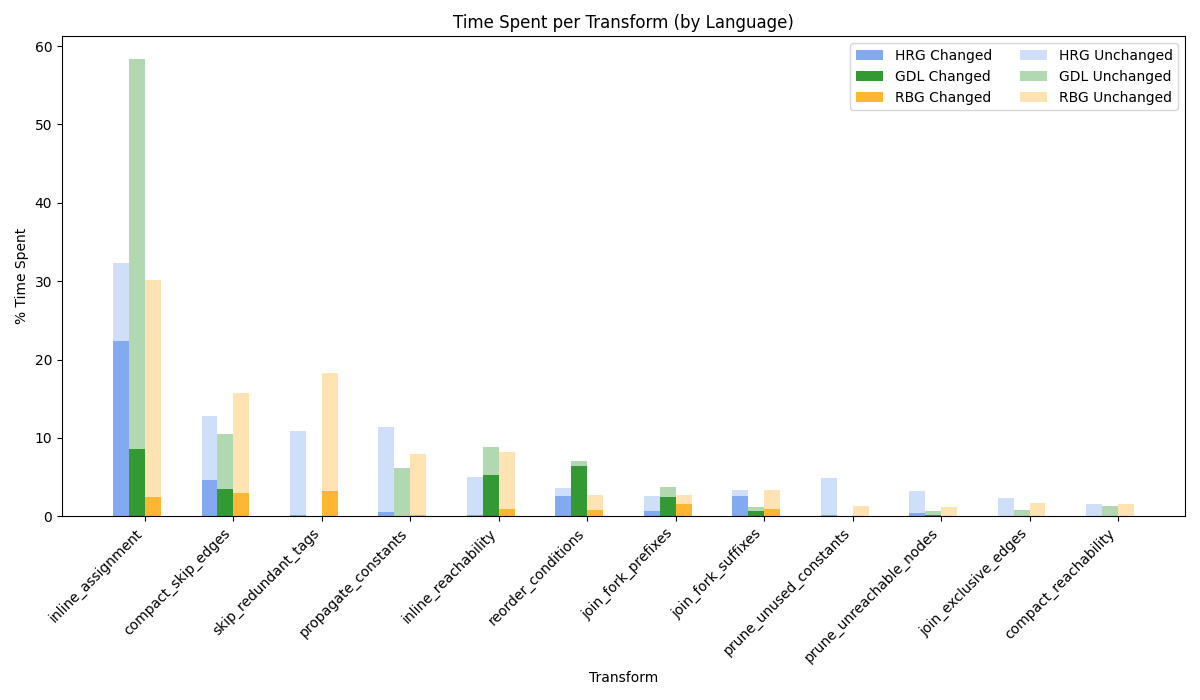
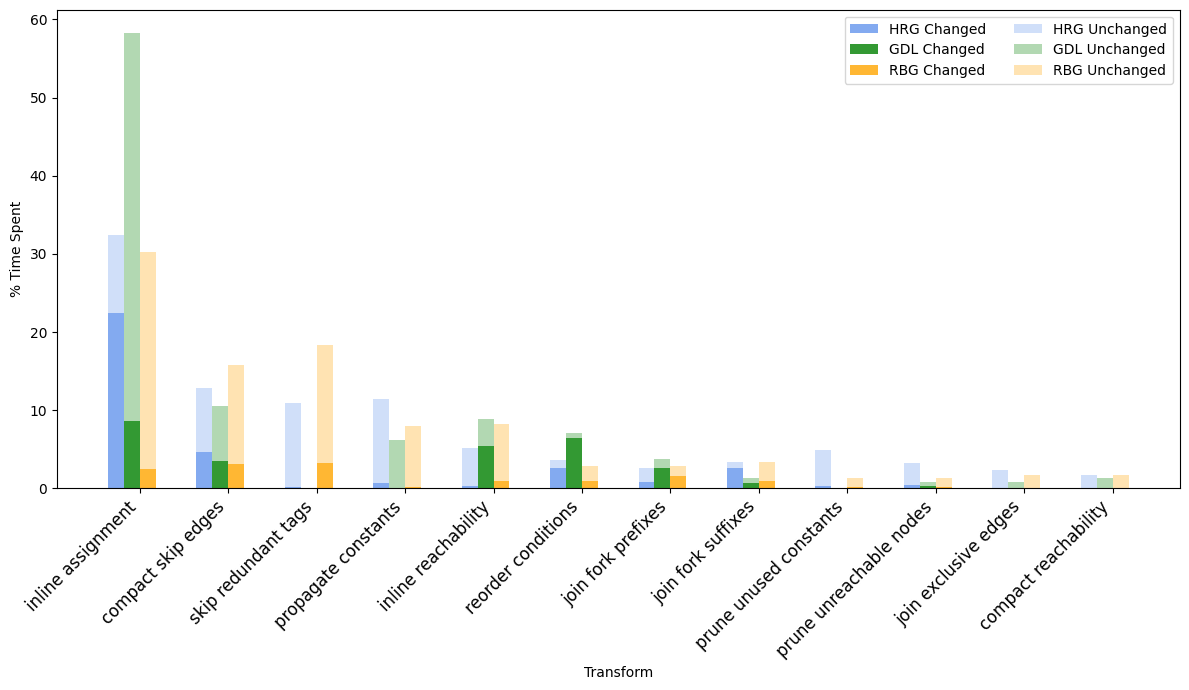
Add new plots

diff --git a/scripts/plots/flags_influence_plot.py b/scripts/plots/flags_influence_plot.py
@@ -23,7 +23,8 @@ def create_plot(df, language=None):
     
 
     df['flags'] = df['flags'].str.replace(r'--', '', regex=True)
-    df['flags'] = df['flags'].str.replace(r'-', '_', regex=True)
+    df['flags'] = df['flags'].str.replace(r'-', ' ', regex=True)
+    df['transform'] = df['transform'].str.replace(r'_', ' ', regex=True)
 
     # df['changed_diff'] = signed_log(df['changed_diff'])
 
@@ -37,8 +38,8 @@ def create_plot(df, language=None):
         fill_value=None
     )
     plt.figure(figsize=(12, 8))
-    ax = sns.heatmap(pivot_table, robust=True, annot=False, cmap="seismic", cbar_kws={'label': 'Average runs difference (%)'}, center=0)
-    ax.set_title(f"Enabled Optimization Influence on Other Transformations")
+    ax = sns.heatmap(pivot_table, robust=True, annot=False, fmt=".2f", cmap="seismic", center=0, square=True)
+    ax.set_title(f"Average runs difference (%)")
     # ax.set_xlabel("Enabled Optimization")
     # ax.set_ylabel("Transformation")
     ax.set_xlabel("")
@@ -54,7 +55,7 @@ def main():
     df = load_data()
     for language in [None]:
         ax = create_plot(df, language)
-        ax.figure.savefig(f"results/flags_influence_plot_{language}.png")
+        ax.figure.savefig(f"results/flags_influence_plot_{language}.png", bbox_inches="tight")
 
 if __name__ == "__main__":
     main()

diff --git a/scripts/plots/flags_metrics_influence_plot.py b/scripts/plots/flags_metrics_influence_plot.py
@@ -21,6 +21,7 @@ def create_plot(df, language=None):
         df = df.groupby(['flags']).mean().reset_index()
 
     df['flags'] = df['flags'].str.replace(r'--', '', regex=True)
+    df['flags'] = df['flags'].str.replace(r'-', ' ', regex=True)
 
     # for col in df.columns:
     #     if col != 'flags' and col != 'language':
@@ -31,8 +32,8 @@ def create_plot(df, language=None):
     sns.set_theme(style="whitegrid")
     
     plt.figure(figsize=(12, 8))
-    ax = sns.heatmap(df,robust=True, annot=False, fmt=".2f", cmap="seismic", cbar_kws={'label': 'Average Change (%)'}, center=0)
-    ax.set_title(f"Optimization Influence on Metrics")
+    ax = sns.heatmap(df,robust=True, annot=False, fmt=".2f", cmap="seismic", center=0, square=True)
+    ax.set_title(f"Average Change (%)")
     # ax.set_xlabel("Optimization")
     # ax.set_ylabel("Metric") 
     ax.set_xlabel("")
@@ -48,7 +49,7 @@ def main():
     df = load_data()
     for language in [None]:
         ax = create_plot(df, language)
-        ax.figure.savefig(f"results/flags_metrics_influence_plot_{language}.png")
+        ax.figure.savefig(f"results/flags_metrics_influence_plot_{language}.png", bbox_inches="tight")
 
 if __name__ == "__main__":
     main()

diff --git a/scripts/plots/tws_plot.py b/scripts/plots/tws_plot.py
@@ -20,18 +20,19 @@ def create_plot_big(df):
     palette = {'HRG': 'cornflowerblue', 'RBG': 'orange', 'GDL': 'green'}
     df_melted['language'] = df_melted['language'].map(lang_map)
     sns.barplot(data=df_melted, x='transform', y='changed_time_perc', hue='language', palette=palette, errorbar=None)
-    plt.title('Time Well Spent on Each Transformation')
+    # plt.title('Time Well Spent on Each Transformation')
     plt.ylabel('% Time Spent on Changing Passes')
     plt.xlabel('Transformation')
-    plt.xticks(rotation=90)
+    plt.xticks(rotation=90, fontsize=12)
     plt.legend(title='Language')
     plt.tight_layout()
     return plt.gca()
 
 def main():
     df = load_data()
+    df['transform'] = df['transform'].str.replace('_', ' ')
     ax = create_plot_big(df)
-    ax.figure.savefig(f"results/tws_plot.png")
+    ax.figure.savefig(f"results/tws_plot.png", bbox_inches="tight")
 
 if __name__ == "__main__":
     main()

diff --git a/scripts/data/games_analysis.py b/scripts/data/games_analysis.py
@@ -4,7 +4,6 @@ import pandas as pd
 def with_stats():
     df = pd.read_csv("../collect/results/stats.csv")
     df = df[df['flags'] == 'none']
-    df = df[df['language'] != 'rg']
     df = df[['game', 'language', 'edges']]
     # Categorize edge: <50, <50, <100, <500, <1000, <2000
     df['edge_category'] = pd.cut(df['edges'], bins=[-1, 50, 100, 500, 1000, 2000, 4000, float('inf')], labels=['<50', '<100', '<500', '<1000', '<2000', '<4000', '>4000'])
@@ -31,8 +30,16 @@ def with_stats():
     print(df)
     return df
 
+def print_stats():
+    df = pd.read_csv("../collect/results/stats.csv")
+    df = df[df['flags'] == 'none']
+    df = df[['game', 'language', 'edges']]
+    df = df.sort_values(by=['edges'])
+    df.to_csv("results/sorted.csv", index=False)
+
 def main():
     with_stats().to_csv("results/stats_grouped.csv")
+    print_stats()
 
 if __name__ == "__main__":
     main()

diff --git a/scripts/plots/time_spent_plot.py b/scripts/plots/time_spent_plot.py
@@ -39,9 +39,9 @@ def create_plot_big(df):
 
     ax.set_ylabel('% Time Spent')
     ax.set_xlabel('Transform')
-    ax.set_title('Time Spent per Transform (by Language)')
+    # ax.set_title('Time Spent per Transform (by Language)')
     ax.set_xticks(x)
-    ax.set_xticklabels(transforms, rotation=45, ha='right')
+    ax.set_xticklabels(transforms, rotation=45, ha='right', fontsize=12)
     # Custom legend: one for changed, one for unchanged, color per language
     from matplotlib.patches import Patch
     legend_patches = []
@@ -56,8 +56,9 @@ def create_plot_big(df):
 
 def main():
     df = load_data()
+    df['transform'] = df['transform'].str.replace('_', ' ')
     ax = create_plot_big(df)
-    ax.figure.savefig(f"results/tws_plot_big.png")
+    ax.figure.savefig(f"results/tws_plot_big.png", bbox_inches="tight")
 
 if __name__ == "__main__":
     main()
